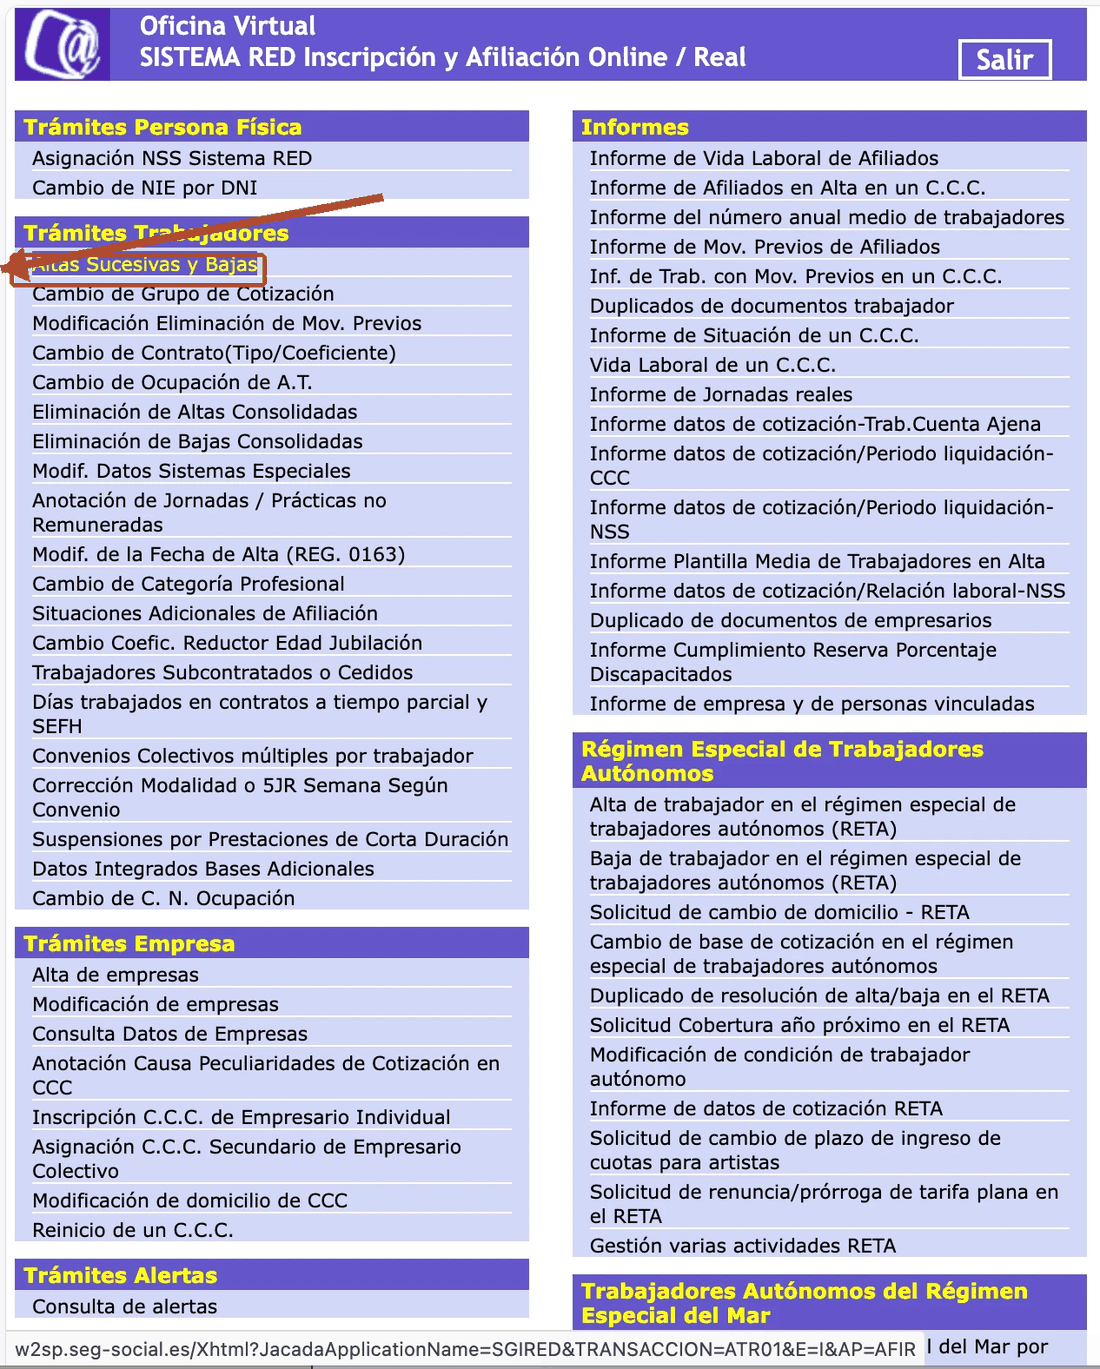
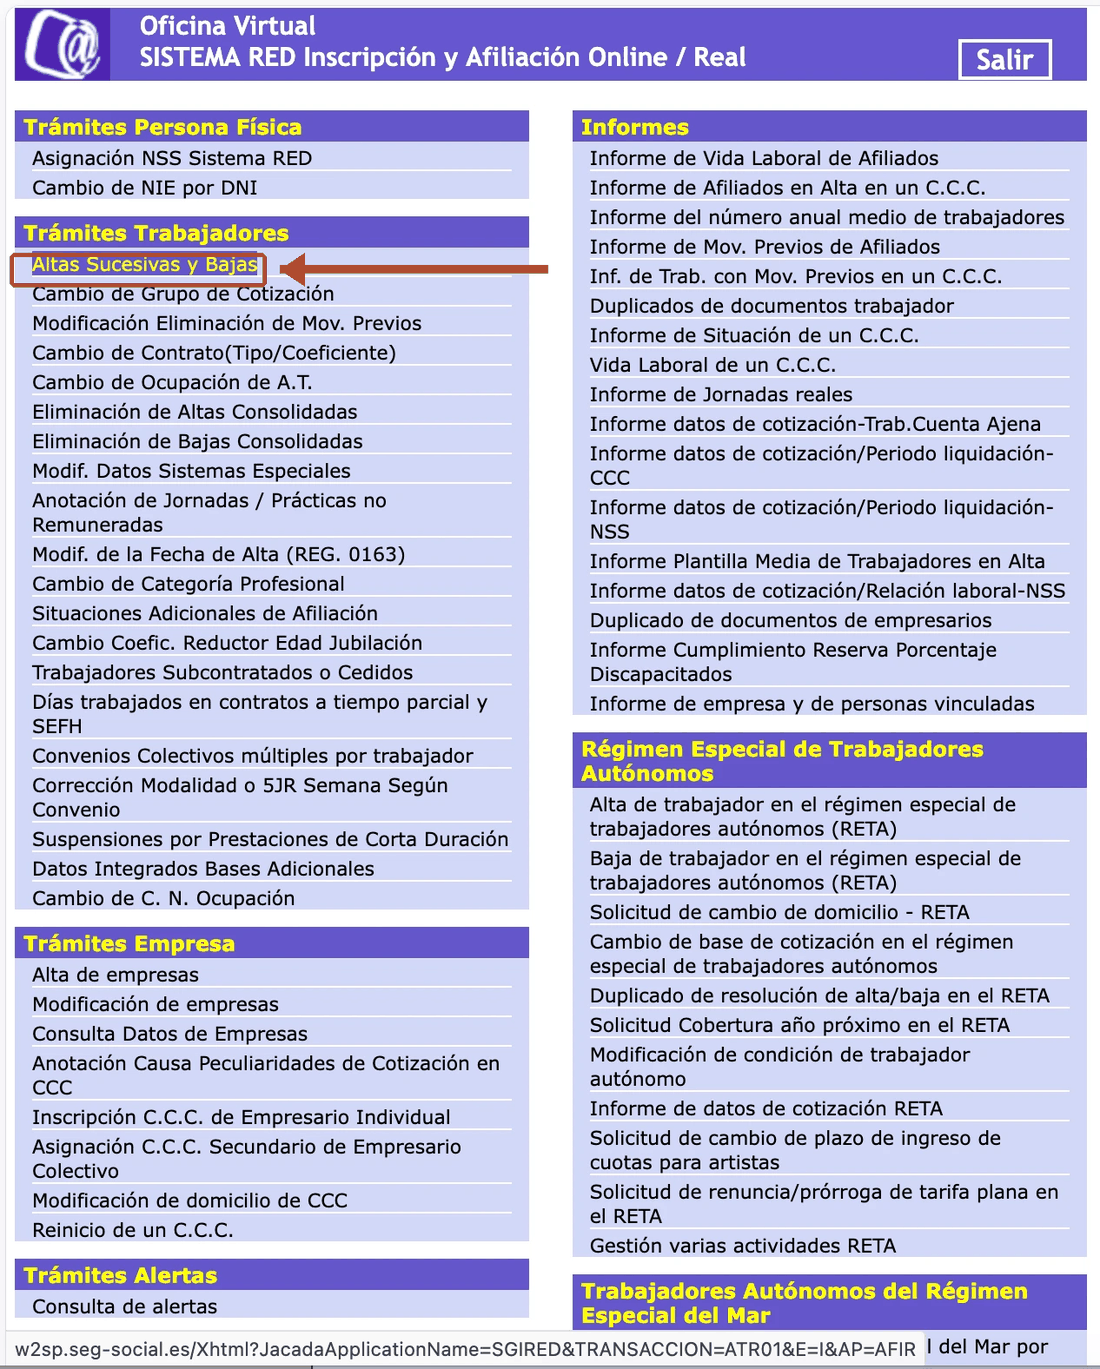
Ajusta las flechas de los pasos 2/3 y da contexto a la imagen de bajas
Las flechas cruzaban texto y encabezados; ahora apuntan en horizontal
desde el hueco en blanco de cada pantalla, sin solaparse con nada. La
captura del formulario de baja pasa de ocupar todo el ancho a un
tamaño pequeño con texto explicativo al lado, igual que los pasos del
alta.

Changed region(s): [[0.0618, 0.1534, 0.4945, 0.2148], [0.2782, 0.1227, 0.34, 0.1534], [0.0, 0.1841, 0.0618, 0.2148]]

diff --git a/red-app.js b/red-app.js
@@ -64,7 +64,9 @@
     const p=page('baja');
     const codes=DATA.baja_pdf_codes.filter(x=>matches(`${x.code} ${x.title} ${x.explanation} ${x.note}`));
     const cards=codes.map((x,i)=>block(`baja-${x.code}`,`${x.code} · ${x.title}`,'Clave de baja',`<div class="r-code-grid"><div><p><strong>Explicación:</strong> ${esc(x.explanation)}</p><p><strong>Nota operativa:</strong> ${esc(x.note)}</p></div><div class="r-tile r-tile-code"><span class="num mono">Código</span><strong class="mono">${esc(x.code)}</strong><p>Elegir solo cuando el supuesto y la documentación coincidan.</p></div></div><div class="r-source-row">${sourceLink('https://www.seg-social.es/wps/wcm/connect/wss/fbd24b0c-7534-4c13-b5dd-db369ffac742/2012-08.pdf?MOD=AJPERES','Consultar PDF oficial de claves de baja')}</div>`,i===0)).join('');
-    return `<section class="section" id="bajas" style="background:var(--card);border-top:1px solid var(--line);border-bottom:1px solid var(--line);"><div class="wrap"><div class="eyebrow">02 · Catálogo oficial</div><h2>Claves de baja en la Seguridad Social</h2><p class="section-intro">Cada código tiene su propio desplegable con explicación, límites y criterios de uso.</p><div class="r-notice"><span class="r-badge">${DATA.baja_pdf_codes.length} claves</span><strong>Catálogo ampliado con el PDF oficial de la Seguridad Social.</strong><p>La clave debe corresponder a la causa real y más específica del cese.</p></div>${p?images(p):''}<div class="block-list">${cards}</div>${p?.warnings?.length?`<div class="r-warning"><strong>Advertencias del catálogo</strong><ul>${p.warnings.map(x=>`<li>${esc(x)}</li>`).join('')}</ul></div>`:''}</div></section>`;
+    const bajaImg = p?.image_urls?.[0];
+    const bajaImgBlock = bajaImg ? `<div class="r-block"><h4>Así se ve el formulario de baja</h4><div class="r-step"><p>Dentro de <strong>Altas y Bajas de Trabajadores</strong>, al elegir la acción Baja se abre este formulario: la clave va en <strong>Situación</strong>, junto con la fecha real de baja y, según el caso, los campos de fin de vacaciones, días trabajados o fin de contrato temporal.</p><img src="${esc(bajaImg)}" alt="Formulario de baja en Altas y Bajas de Trabajadores" loading="lazy"></div></div>` : '';
+    return `<section class="section" id="bajas" style="background:var(--card);border-top:1px solid var(--line);border-bottom:1px solid var(--line);"><div class="wrap"><div class="eyebrow">02 · Catálogo oficial</div><h2>Claves de baja en la Seguridad Social</h2><p class="section-intro">Cada código tiene su propio desplegable con explicación, límites y criterios de uso.</p><div class="r-notice"><span class="r-badge">${DATA.baja_pdf_codes.length} claves</span><strong>Catálogo ampliado con el PDF oficial de la Seguridad Social.</strong><p>La clave debe corresponder a la causa real y más específica del cese.</p></div>${bajaImgBlock}<div class="block-list">${cards}</div>${p?.warnings?.length?`<div class="r-warning"><strong>Advertencias del catálogo</strong><ul>${p.warnings.map(x=>`<li>${esc(x)}</li>`).join('')}</ul></div>`:''}</div></section>`;
   };
 
   const becariosSection = () => {
